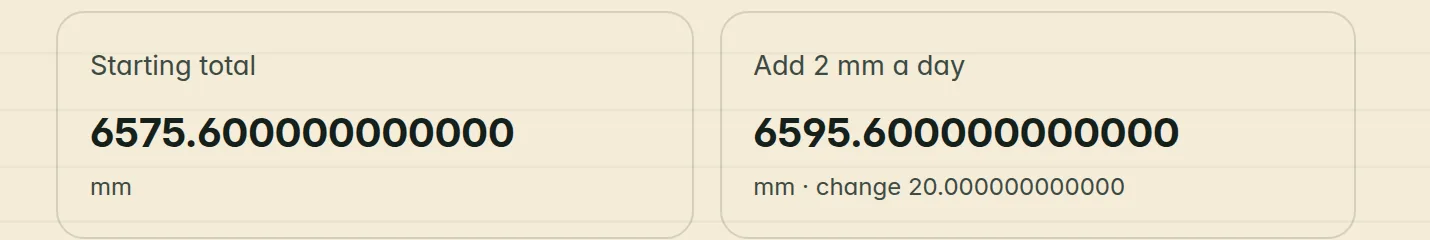
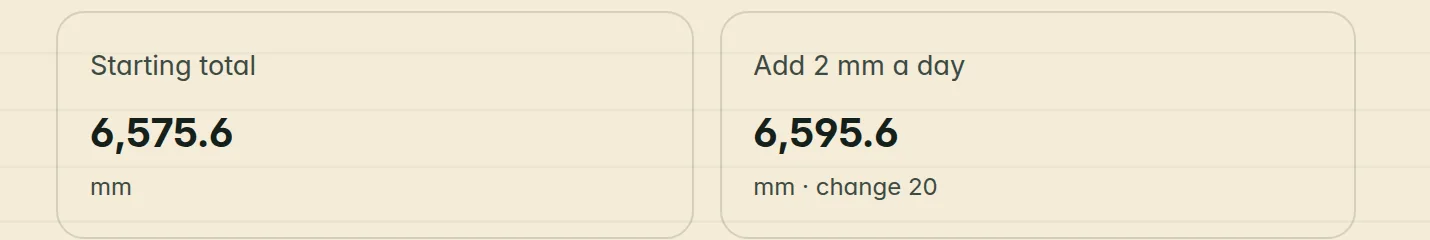
feat: Osalytix product pictures and readable what-if figures
- Site pictures re-captured from a Farm field survey upload with the
  Osalytix name (engine, ask, analyst list, what-if; light and dark).
- The what-if summary cards show values through displayMetric (trailing
  zeros trimmed, thousands grouped, nothing rounded); exact strings stay
  in the table and evidence.

Changed region(s): [[0.5231, 0.4667, 0.8308, 0.6417], [0.0615, 0.4958, 0.3692, 0.6417], [0.6462, 0.7292, 0.8, 0.8167]]

diff --git a/apps/web/src/app/workspace/scenario-panel.tsx b/apps/web/src/app/workspace/scenario-panel.tsx
@@ -6,6 +6,7 @@ import type { FormEvent } from "react";
 import type { ApiRequest } from "./profile-panel";
 import type { AnalysisOptions, AnalysisSummary } from "./decision-types";
 import { AnswerVisualization } from "./answer-visualization";
+import { displayMetric } from "./visualization-values";
 import { SourceScenarioPanel } from "./source-scenario-panel";
 import { isSourceScenarioMethod } from "./source-scenario-types";
 import styles from "./source-scenario-panel.module.css";
@@ -138,7 +139,7 @@ function AggregateScenarioPanel({ root, request, onReview, initialMetric = "", i
       <p>{selected.current ? "Current source and meanings." : "Historical source or meanings; create a new comparison against current data."} {result.sample_count} complete records. Baseline {result.aggregation} of {result.metric}: {result.baseline} {selected.run.evidence.units[result.metric]}.</p>
       <div className="buttonRow"><button disabled={busy} onClick={() => open(selected.run.id)}>Replay comparison evidence</button><button disabled={busy} onClick={successor}>Create successor comparison</button></div>
       {result.parent_run_id && <p>Successor of your saved comparison. <button disabled={busy} onClick={() => open(result.parent_run_id!)}>Open prior comparison</button></p>}
-      <dl className={styles.cards} aria-label="Scenario at a glance"><div><dt>Starting {result.aggregation === "avg" ? "average" : "total"}</dt><dd>{result.baseline}</dd><small>{selected.run.evidence.units[result.metric]}</small></div>{result.alternatives.map(alternative => <div key={alternative.name}><dt>{alternative.name}</dt><dd>{alternative.result}</dd><small>{selected.run.evidence.units[result.metric]} · change {alternative.difference}</small></div>)}</dl>
+      <dl className={styles.cards} aria-label="Scenario at a glance"><div><dt>Starting {result.aggregation === "avg" ? "average" : "total"}</dt><dd>{displayMetric(result.baseline)}</dd><small>{selected.run.evidence.units[result.metric]}</small></div>{result.alternatives.map(alternative => <div key={alternative.name}><dt>{alternative.name}</dt><dd>{displayMetric(alternative.result)}</dd><small>{selected.run.evidence.units[result.metric]} · change {displayMetric(alternative.difference)}</small></div>)}</dl>
       <AnswerVisualization title="Conditional scenario comparison" columns={["Alternative", "Conditional value"]} rows={points.map(point => [point.name, point.value])} recordsAnalyzed={result.sample_count} chartLimit={6} />
       <details className={styles.evidence}><summary>Exact values and declared assumptions</summary><p>Plot coordinates are approximate. The table preserves returned numerical strings.</p>
       <div className="tableWrap"><table><thead><tr><th>Alternative</th><th>Declared assumption</th><th>Conditional value</th><th>Difference</th><th>Percent difference</th></tr></thead><tbody><tr><td>Observed baseline</td><td>Original source</td><td>{result.baseline}</td><td>0</td><td>{/^[-+]?0(?:\.0*)?$/.test(result.baseline) ? "Unavailable · zero baseline" : "0"}</td></tr>{result.alternatives.map(a => <tr key={a.name}><td>{a.name}</td><td>{a.operation === "compound_percent" ? a.drivers?.map(d => `${d.name}: ${d.percent_change}%`).join(" × ") : a.operation === "daily_change" ? `${a.daily_change} ${selected.run.evidence.units[result.metric]} per day for ${a.days} days` : `${a.operation === "replace" ? "Replacement" : "Percent change"}: ${a.value}`}</td><td>{a.result}</td><td>{a.difference}</td><td>{a.percentage_difference ?? "Unavailable · zero baseline"}</td></tr>)}</tbody></table></div></details>
